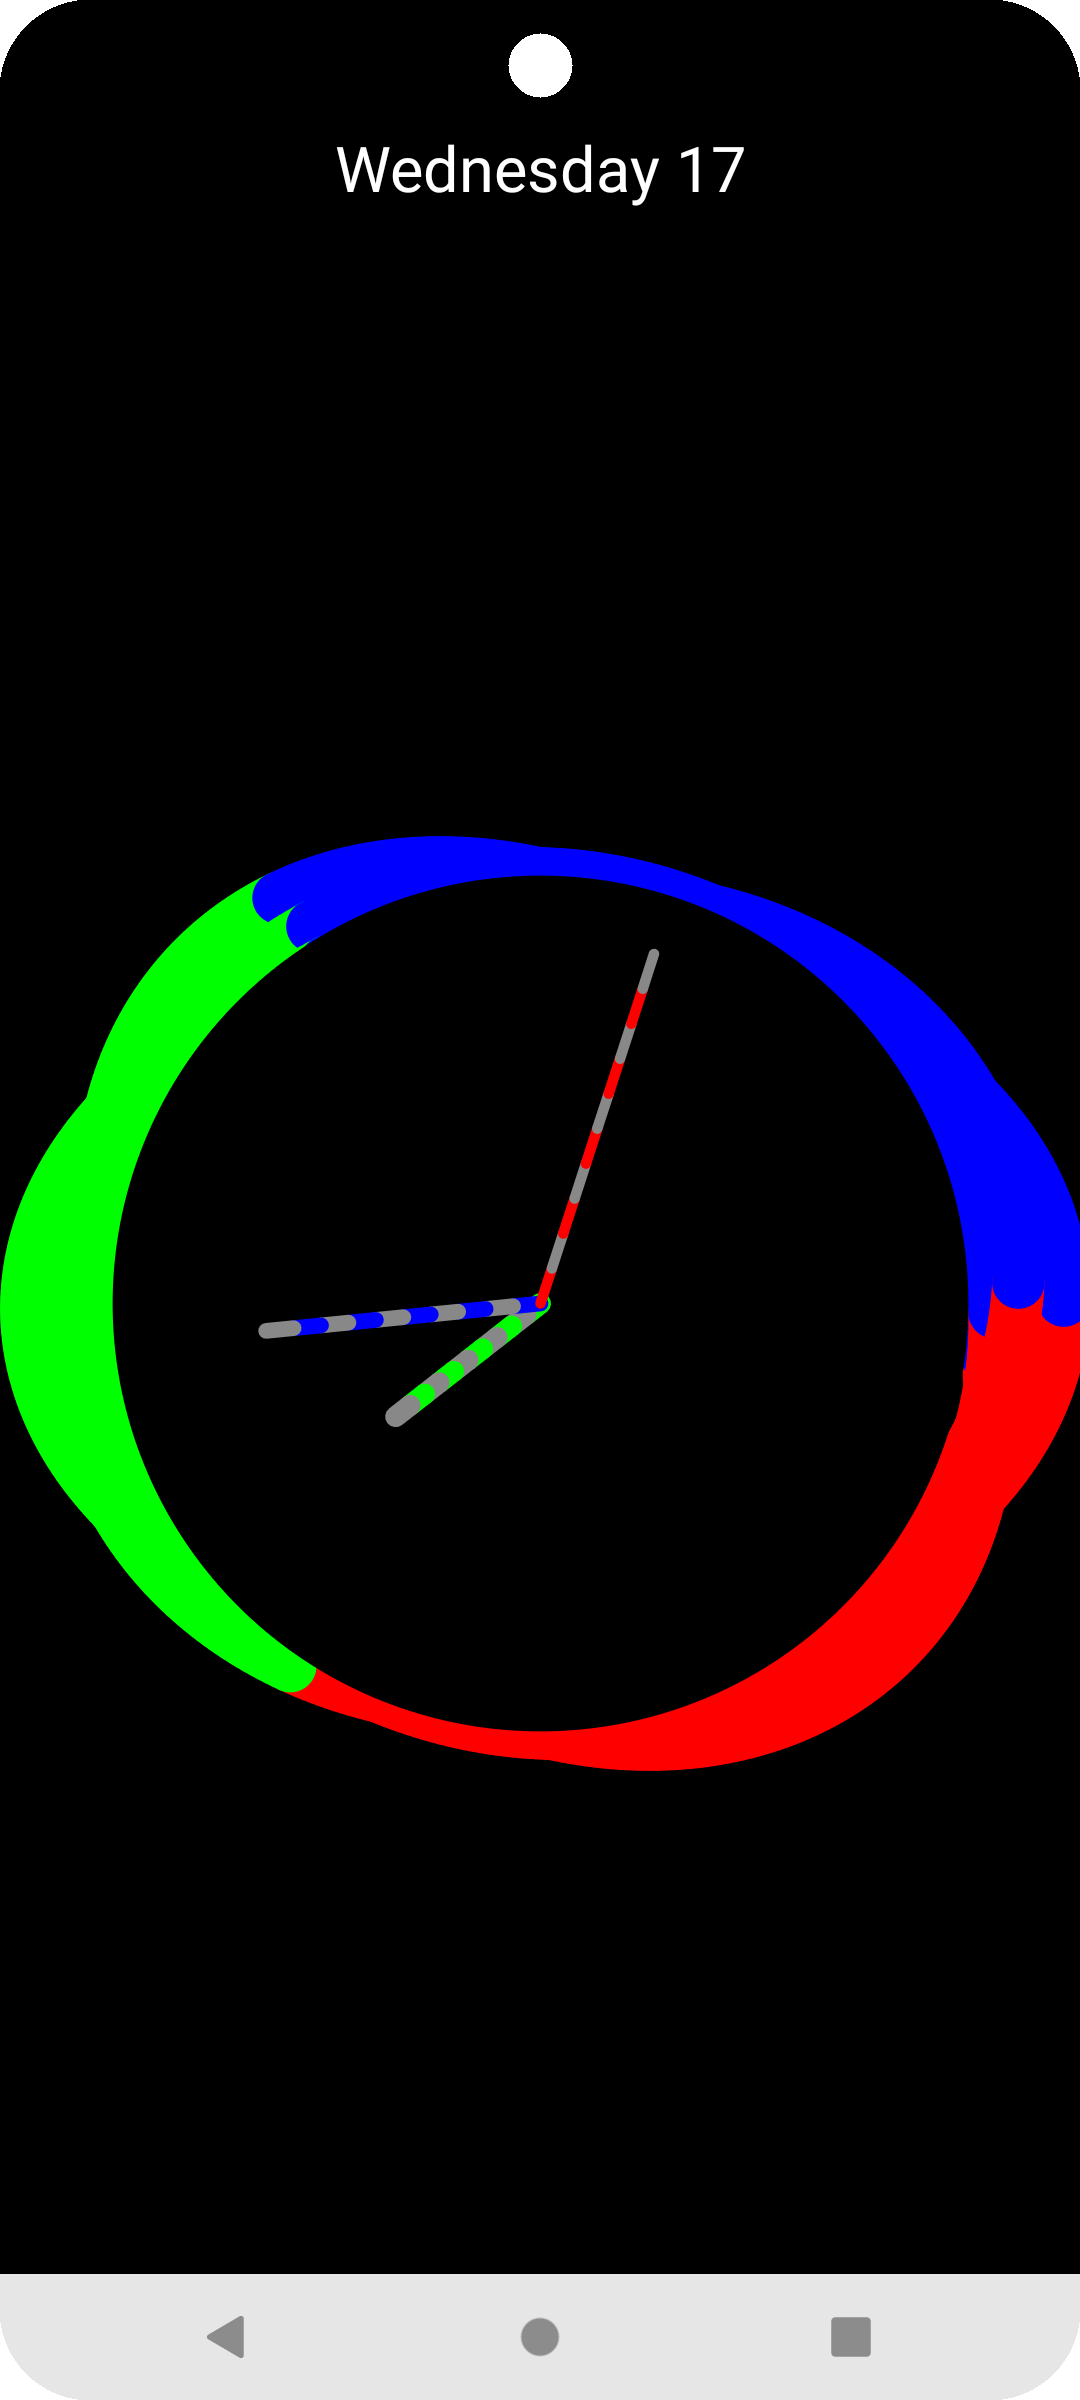
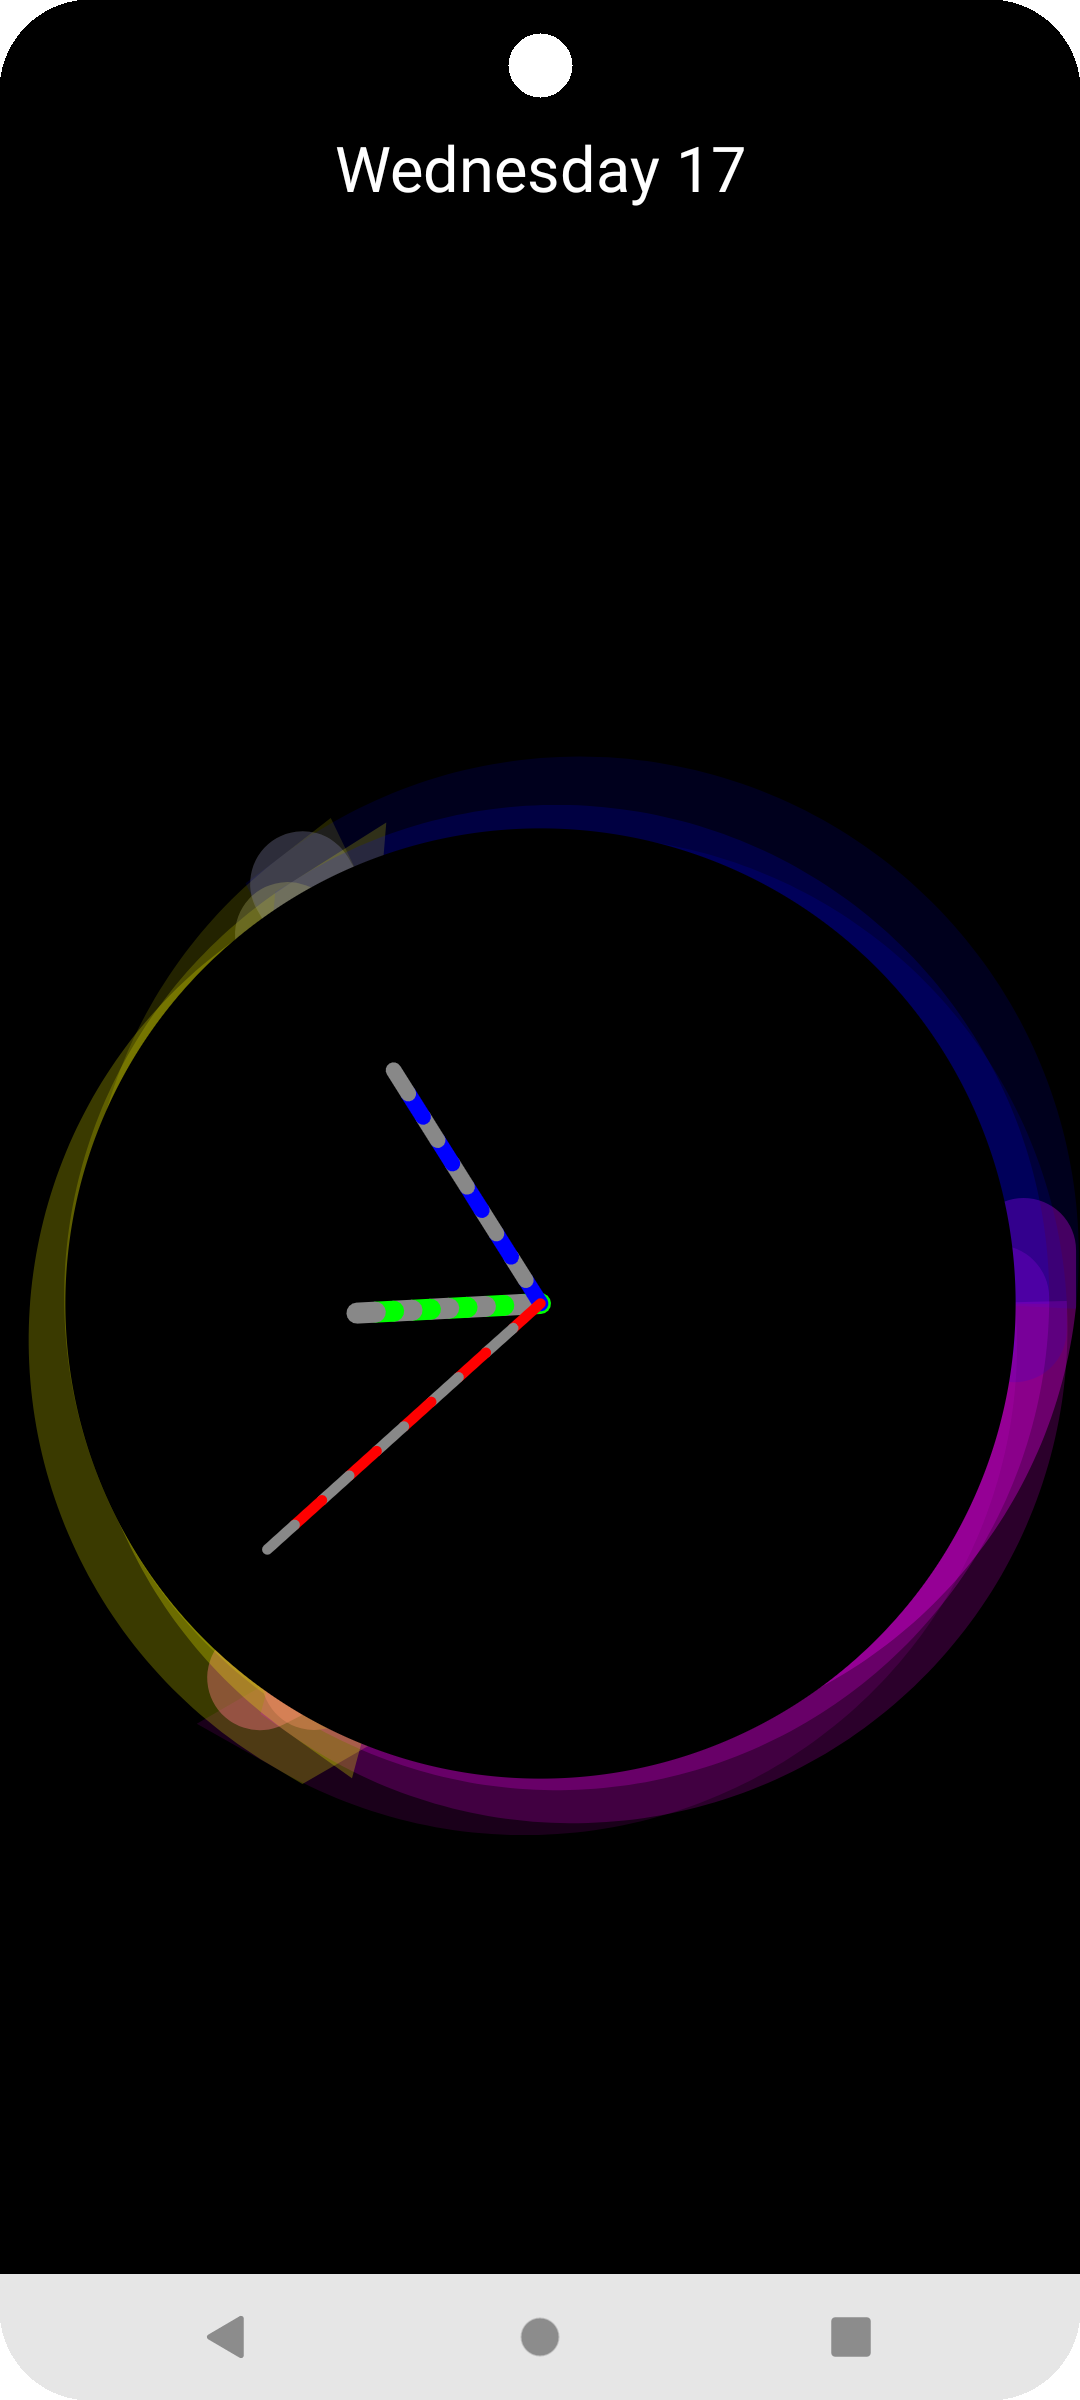
Initial commit

diff --git a/app/src/main/java/com/example/clock/Clock.kt b/app/src/main/java/com/example/clock/Clock.kt
@@ -18,10 +18,14 @@ import androidx.compose.runtime.*
 import androidx.compose.ui.Alignment
 import androidx.compose.ui.Modifier
 import androidx.compose.ui.geometry.Offset
-import androidx.compose.ui.graphics.Color
+import androidx.compose.ui.graphics.drawscope.DrawScope
+
+
+import androidx.compose.ui.graphics.Path
 import androidx.compose.ui.graphics.PointMode
 import androidx.compose.ui.graphics.StrokeCap
-import androidx.compose.ui.graphics.drawscope.DrawScope
+
+import androidx.compose.ui.graphics.drawscope.Stroke
 import androidx.compose.ui.text.style.TextAlign
 import androidx.compose.ui.unit.Dp
 import androidx.compose.ui.unit.dp
@@ -29,6 +33,7 @@ import androidx.compose.ui.unit.sp
 import kotlinx.coroutines.delay
 import java.util.*
 import kotlin.math.*
+import androidx.compose.ui.graphics.Color
 
 class Clock : ComponentActivity() {
     override fun onCreate(savedInstanceState: Bundle?) {
@@ -69,24 +74,28 @@ class Clock : ComponentActivity() {
                 ) {
                     CircleBoundaryAnimation(
                         angleOffset = 0f,
-                        segmentColors = listOf(Color.Red, Color.Yellow, Color.Magenta),
-                        waveAmplitude = 20.dp
+                        segmentColors = listOf(Color.Magenta, Color.Yellow, Color.Blue),
+                        waveAmplitude = 25.dp,
+                        durationMillis = 3000
                     )
                     CircleBoundaryAnimation(
                         angleOffset = 90f,
-                        segmentColors = listOf(Color.Magenta, Color.Green, Color.Blue),
-                        waveAmplitude = 30.dp
+                        segmentColors = listOf(Color.Magenta, Color.Yellow, Color.Blue),
+                        waveAmplitude = 17.dp,
+                        durationMillis = 900
                     )
 
                     CircleBoundaryAnimation(
                         angleOffset = 45f,
-                        segmentColors = listOf(Color.Magenta, Color.Green, Color.Blue),
-                        waveAmplitude = 5.dp
+                        segmentColors = listOf(Color.Magenta, Color.Yellow, Color.Blue),
+                        waveAmplitude = 5.dp,
+                        durationMillis = 3500
                     )
                     CircleBoundaryAnimation(
                         angleOffset = 120f,
-                        segmentColors = listOf(Color.Magenta, Color.Green, Color.Blue),
-                        waveAmplitude = 15.dp
+                        segmentColors = listOf(Color.Magenta, Color.Yellow, Color.Blue),
+                        waveAmplitude = 15.dp,
+                        durationMillis = 1500
                     )
 
                     Circle()
@@ -101,7 +110,7 @@ class Clock : ComponentActivity() {
         Canvas(modifier = Modifier.size(100.dp), onDraw = {
             drawCircle(
                 color = Color.Black,
-                radius = 163.dp.toPx()
+                radius = 181.dp.toPx()
             )
         })
     }
@@ -191,61 +200,79 @@ class Clock : ComponentActivity() {
     }
 
     @Composable
-    fun CircleBoundaryAnimation( angleOffset: Float,
-                                 segmentColors: List<Color>,
-                                 waveAmplitude: Dp
-    ) {
-        var animationProgress by remember { mutableStateOf(0f) }
-        val segmentColors = listOf(Color.Red, Color.Green, Color.Blue)
-
-        LaunchedEffect(Unit) {
-            animationProgress = 0f
-            animate(
-                initialValue = 0f,
-                targetValue = 100f,
-                animationSpec = infiniteRepeatable(
-                    animation = tween(durationMillis = 800, easing =LinearEasing),
-                    repeatMode = RepeatMode.Restart
-                )
-            ) { value, _ ->
-                animationProgress = value
-            }
-        }
-
-        Canvas(
-            modifier = Modifier.fillMaxSize()
+        fun CircleBoundaryAnimation(
+            angleOffset: Float,
+            segmentColors: List<Color>,
+            waveAmplitude: Dp,
+            durationMillis: Int
         ) {
-            val radius = size.width / 2 - 100
-            val center = Offset(size.width / 2+5, size.height / 2)
+            var animationProgress by remember { mutableStateOf(0f) }
 
-            val waveOffset = (animationProgress + angleOffset) * (PI / 180)
-            val waveAmplitude = waveAmplitude.toPx()
-            val segmentAngle = 360f / segmentColors.size
-
-            for (segmentIndex in segmentColors.indices) {
-                val points = mutableListOf<Offset>()
-                val startAngle = segmentIndex * segmentAngle
-                val endAngle = (segmentIndex + 1) * segmentAngle
-
-                for (i in startAngle.toInt()..endAngle.toInt()) {
-                    val angle = i * (PI / 180)
-                    val x = radius * cos(angle) + center.x + sin(waveOffset + angle) * waveAmplitude
-                    val y = radius * sin(angle) + center.y + cos(waveOffset + angle) * waveAmplitude
-
-                    if (x in 0f..size.width && y in 0f..size.height) {
-                        points.add(Offset(x.toFloat(), y.toFloat()))
-                    }
+            LaunchedEffect(Unit) {
+                animationProgress = 0f
+                animate(
+                    initialValue = 0f,
+                    targetValue = 360f,
+                    animationSpec = infiniteRepeatable(
+                        animation = tween(durationMillis, easing = LinearEasing),
+                        repeatMode = RepeatMode.Restart
+                    )
+                ) { value, _ ->
+                    animationProgress = value
                 }
+            }
 
-                drawPoints(
-                    points = points,
-                    pointMode = PointMode.Points,
-                    color = segmentColors[segmentIndex],
-                    strokeWidth = 20.dp.toPx(),
-                    cap = StrokeCap.Round
-                )
+            Canvas(
+                modifier = Modifier.fillMaxSize()
+            ) {
+                val radius = size.width / 2 -100
+                val center = Offset(size.width / 2 + 5, size.height / 2)
+
+                val waveOffset = (animationProgress + angleOffset) * (PI / 180)
+                val waveAmplitudePx = waveAmplitude.toPx()
+                val segmentAngle = 360f / segmentColors.size
+
+                for (segmentIndex in segmentColors.indices) {
+                    val path = Path()
+                    val startAngle = segmentIndex * segmentAngle
+                    val endAngle = (segmentIndex + 1) * segmentAngle
+                    val baseColor = segmentColors[segmentIndex]
+
+                    path.moveTo(
+                        x = (center.x + radius * cos(startAngle * (PI / 180)) + sin(waveOffset + startAngle * (PI / 180)) * waveAmplitudePx).toFloat(),
+                        y = (center.y + radius * sin(startAngle * (PI / 180)) + cos(waveOffset + startAngle * (PI / 180)) * waveAmplitudePx).toFloat()
+                    )
+                    var segmentColor = Color.Transparent
+                    for (i in startAngle.toInt()..endAngle.toInt()) {
+                        val angle = i * (PI / 180)
+                        val distanceFromCenter = radius + sin(waveOffset + angle) * waveAmplitudePx
+                        val colorAlpha = (1 - distanceFromCenter / (size.width / 2))
+                            .coerceIn(0.0, 1.0) // Calculate alpha based on distance
+                            segmentColor = baseColor.copy(alpha = colorAlpha.toFloat())
+
+                        val x = distanceFromCenter * cos(angle) + center.x
+                        val y = distanceFromCenter * sin(angle) + center.y
+
+                        if (x in 0f..size.width && y in 0f..size.height) {
+                            path.lineTo(x.toFloat(), y.toFloat())
+                        }
+                    }
+
+                    // Close the path for a continuous line
+                    path.lineTo(
+                        x = (center.x + radius * cos(endAngle * (PI / 180)) + sin(waveOffset + endAngle * (PI / 180)) * waveAmplitudePx).toFloat(),
+                        y = (center.y + radius * sin(endAngle * (PI / 180)) + cos(waveOffset + endAngle * (PI / 180)) * waveAmplitudePx).toFloat()
+                    )
+
+                    drawPath(
+                        path = path,
+                        color = segmentColor, // Use the calculated color with alpha
+                        style = Stroke(width = 40.dp.toPx(),
+                            cap = StrokeCap.Round)
+                    )
+                }
             }
         }
-    }
+
 
 }
